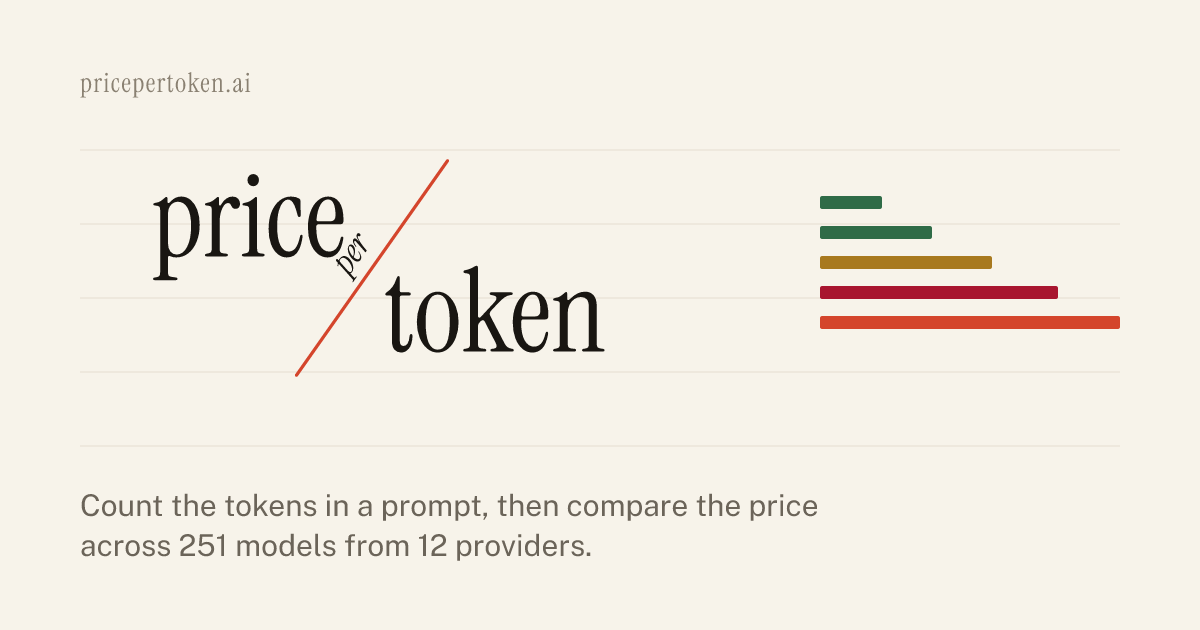
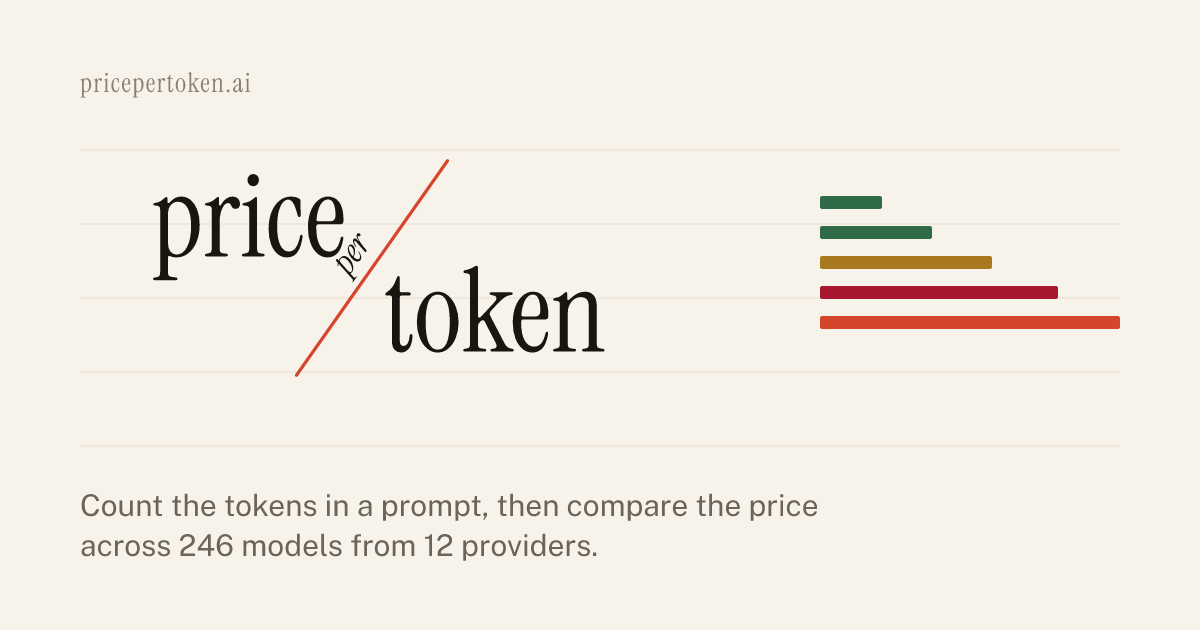
Fold the alias forms sync was missing, stop warning about price ties
Two warnings had been standing on every build. Neither was telling the
truth, in opposite directions.

The redundancy warning read "47% of rows share price and context with a
sibling — sync is over-listing" and had been on since launch. Mostly it
was wrong: four Claude Opus generations list at $5/$25 and
gemini-2.5-flash-lite matches gemini-2.0-flash. Different models at one
price is how this market prices. A warning that is always on is one
nobody reads, so this is now a plain note.

But it was pointing at something real. Sync folded `-2025-08-07` date
snapshots and nothing else, so `jamba-1.5-mini@001` and
`gemini-2.5-flash-preview-09-2025` each shipped a second page for a
model already listed. `scripts/lib/aliases.mjs` now holds the one
definition of "alias", imported by both sync and validate so they cannot
drift; the over-listing check runs on names, where it can be proved, and
fails rather than warns. Five duplicate rows gone, 251 → 246.

Alias matching returns candidates rather than one guess, because the
patterns overlap: `gemini-2.5-flash-lite-preview-09-2025` reads as a
`-2025` snapshot of `…-preview-09`, which nobody ships, and as a dated
preview of `gemini-2.5-flash-lite`, which is the real base. Picking one
reading silently left the duplicate in place. `-latest` is deliberately
not an alias — for Mistral and xAI it is the primary published ID.

The 404 warning wanted structured data on the 404 page. Schema there
[…]

Changed region(s): [[0.1542, 0.8444, 0.4933, 0.9048]]

diff --git a/README.md b/README.md
@@ -73,16 +73,21 @@ tarifele lor vechi — Opus 4.1 e $15/$75 în timp ce Opus 5 e $5/$25 — așa c
 „cel mai scump" selecta fix modelele pe care nu le mai compară nimeni.
 Fereastra de context e cel mai bun indicator de recență din dataset.
 
-**Paginile de compare sunt limitate deliberat.** Produsul cartezian pe 249 de
-modele ar fi ~31.000 de pagini aproape identice. `notableModels(3)` taie la
+**Paginile de compare sunt limitate deliberat.** Produsul cartezian pe tot
+catalogul ar fi ~30.000 de pagini aproape identice. `notableModels(3)` taie la
 modele curente cu context ≥100K, maxim 3 per furnizor → 561 perechi.
+
+**Un model, un rând.** Furnizorii publică același model sub mai multe ID-uri:
+`gpt-5-nano-2025-08-07`, `jamba-1.5-mini@001`, `gemini-2.5-flash-preview-09-2025`.
+`scripts/lib/aliases.mjs` decide ce e alias, sync-ul le pliază pe rândul de bază
+(numele rămâne pe pagină, pentru căutare), iar validatorul pică build-ul dacă
+scapă vreunul. `-latest` **nu** e alias: la Mistral și xAI e ID-ul principal.
 
 ## Ce urmează
 
-1. Schimbă `SITE` în `astro.config.mjs` înainte de deploy.
-2. Tokenizare reală per familie unde e posibil — ăsta e unicul lucru care te
+1. Tokenizare reală per familie unde e posibil — ăsta e unicul lucru care te
    diferențiază tehnic, și e și motivul pentru care badge-urile există.
-3. AI21 nu are cerere măsurabilă sub niciun nume (Jamba 0, AI21 10/lună).
+2. AI21 nu are cerere măsurabilă sub niciun nume (Jamba 0, AI21 10/lună).
    Pagina rămâne pentru completitudine, nu pentru trafic.
-4. Referral spre un gateway (OpenRouter, LLMGateway) în locul bannerelor —
+3. Referral spre un gateway (OpenRouter, LLMGateway) în locul bannerelor —
    publicul de dev blochează reclamele, dar dă click pe infrastructură.
